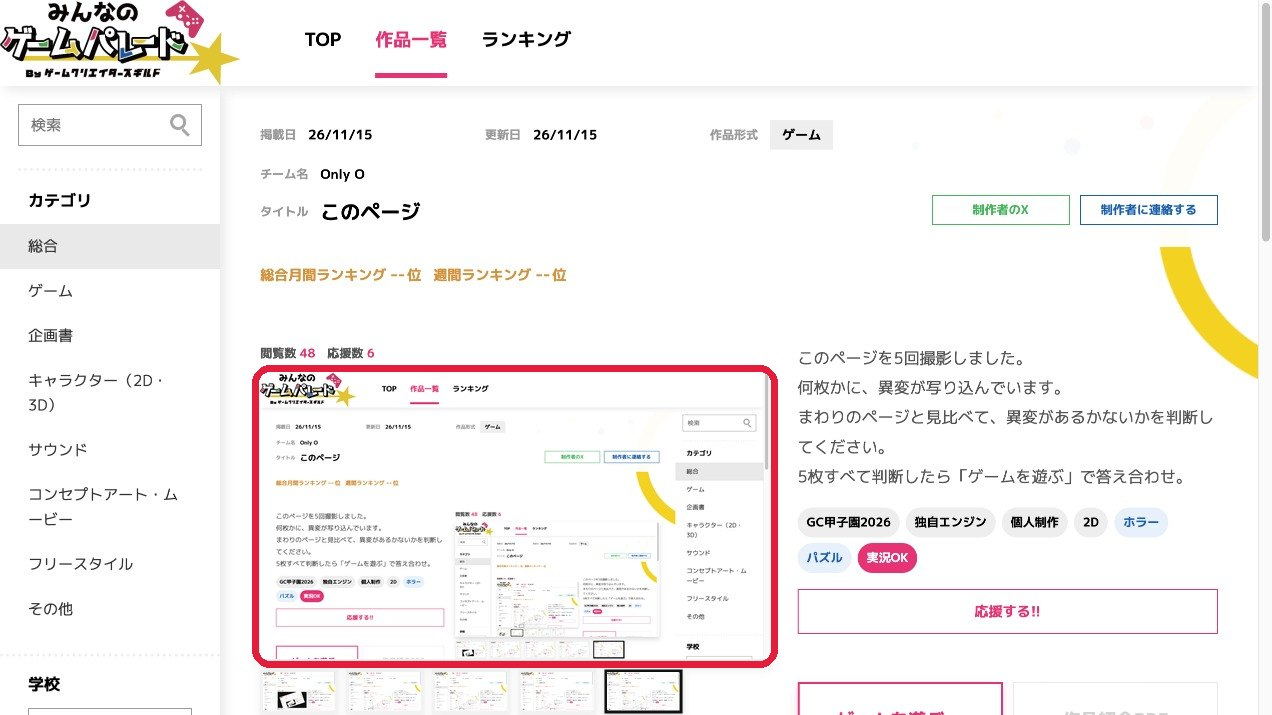
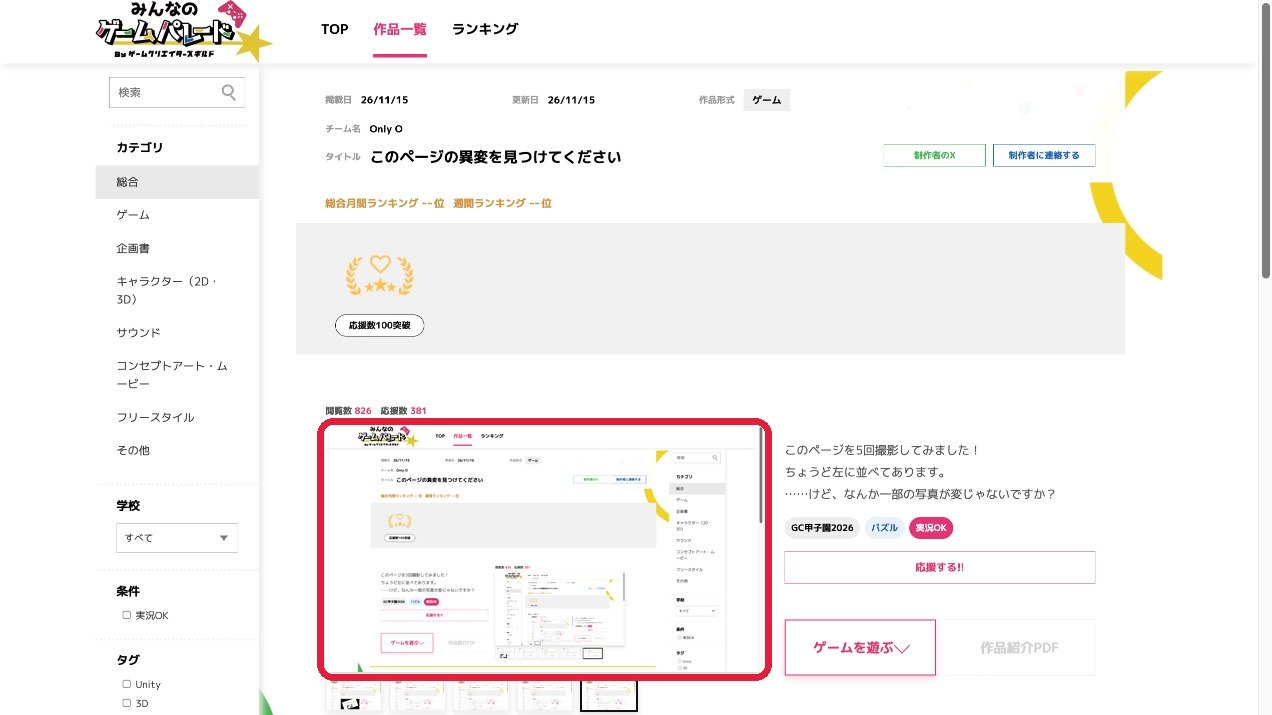
タイトル変更と画像の差し替え

diff --git a/index.html b/index.html
@@ -3,7 +3,7 @@
 <head>
 <meta charset="utf-8">
 <meta name="viewport" content="width=device-width, initial-scale=1">
-<title>このページ ― 答え合わせ</title>
+<title>このページの異変を見つけてください ― 答え合わせ</title>
 <meta name="robots" content="noindex">
 <link rel="preconnect" href="https://fonts.googleapis.com">
 <link rel="preconnect" href="https://fonts.gstatic.com" crossorigin>
@@ -211,7 +211,7 @@
     $("scoreText").innerHTML = `${ITEMS.length}枚中 ${score}<small>枚 正解</small>`;
     $("scoreMsg").textContent = MESSAGES[score];
 
-    const shareText = `『このページ』の異変、${ITEMS.length}枚中${score}枚見抜いた。\n#GC甲子園2026 #このページ`;
+    const shareText = `『このページの異変を見つけてください』、${ITEMS.length}枚中${score}枚の異変を見抜いた。\n#GC甲子園2026`;
     $("share").href = "https://twitter.com/intent/tweet?text=" + encodeURIComponent(shareText) + "&url=" + encodeURIComponent(WORK_URL);
 
     const aWrap = $("answers");
